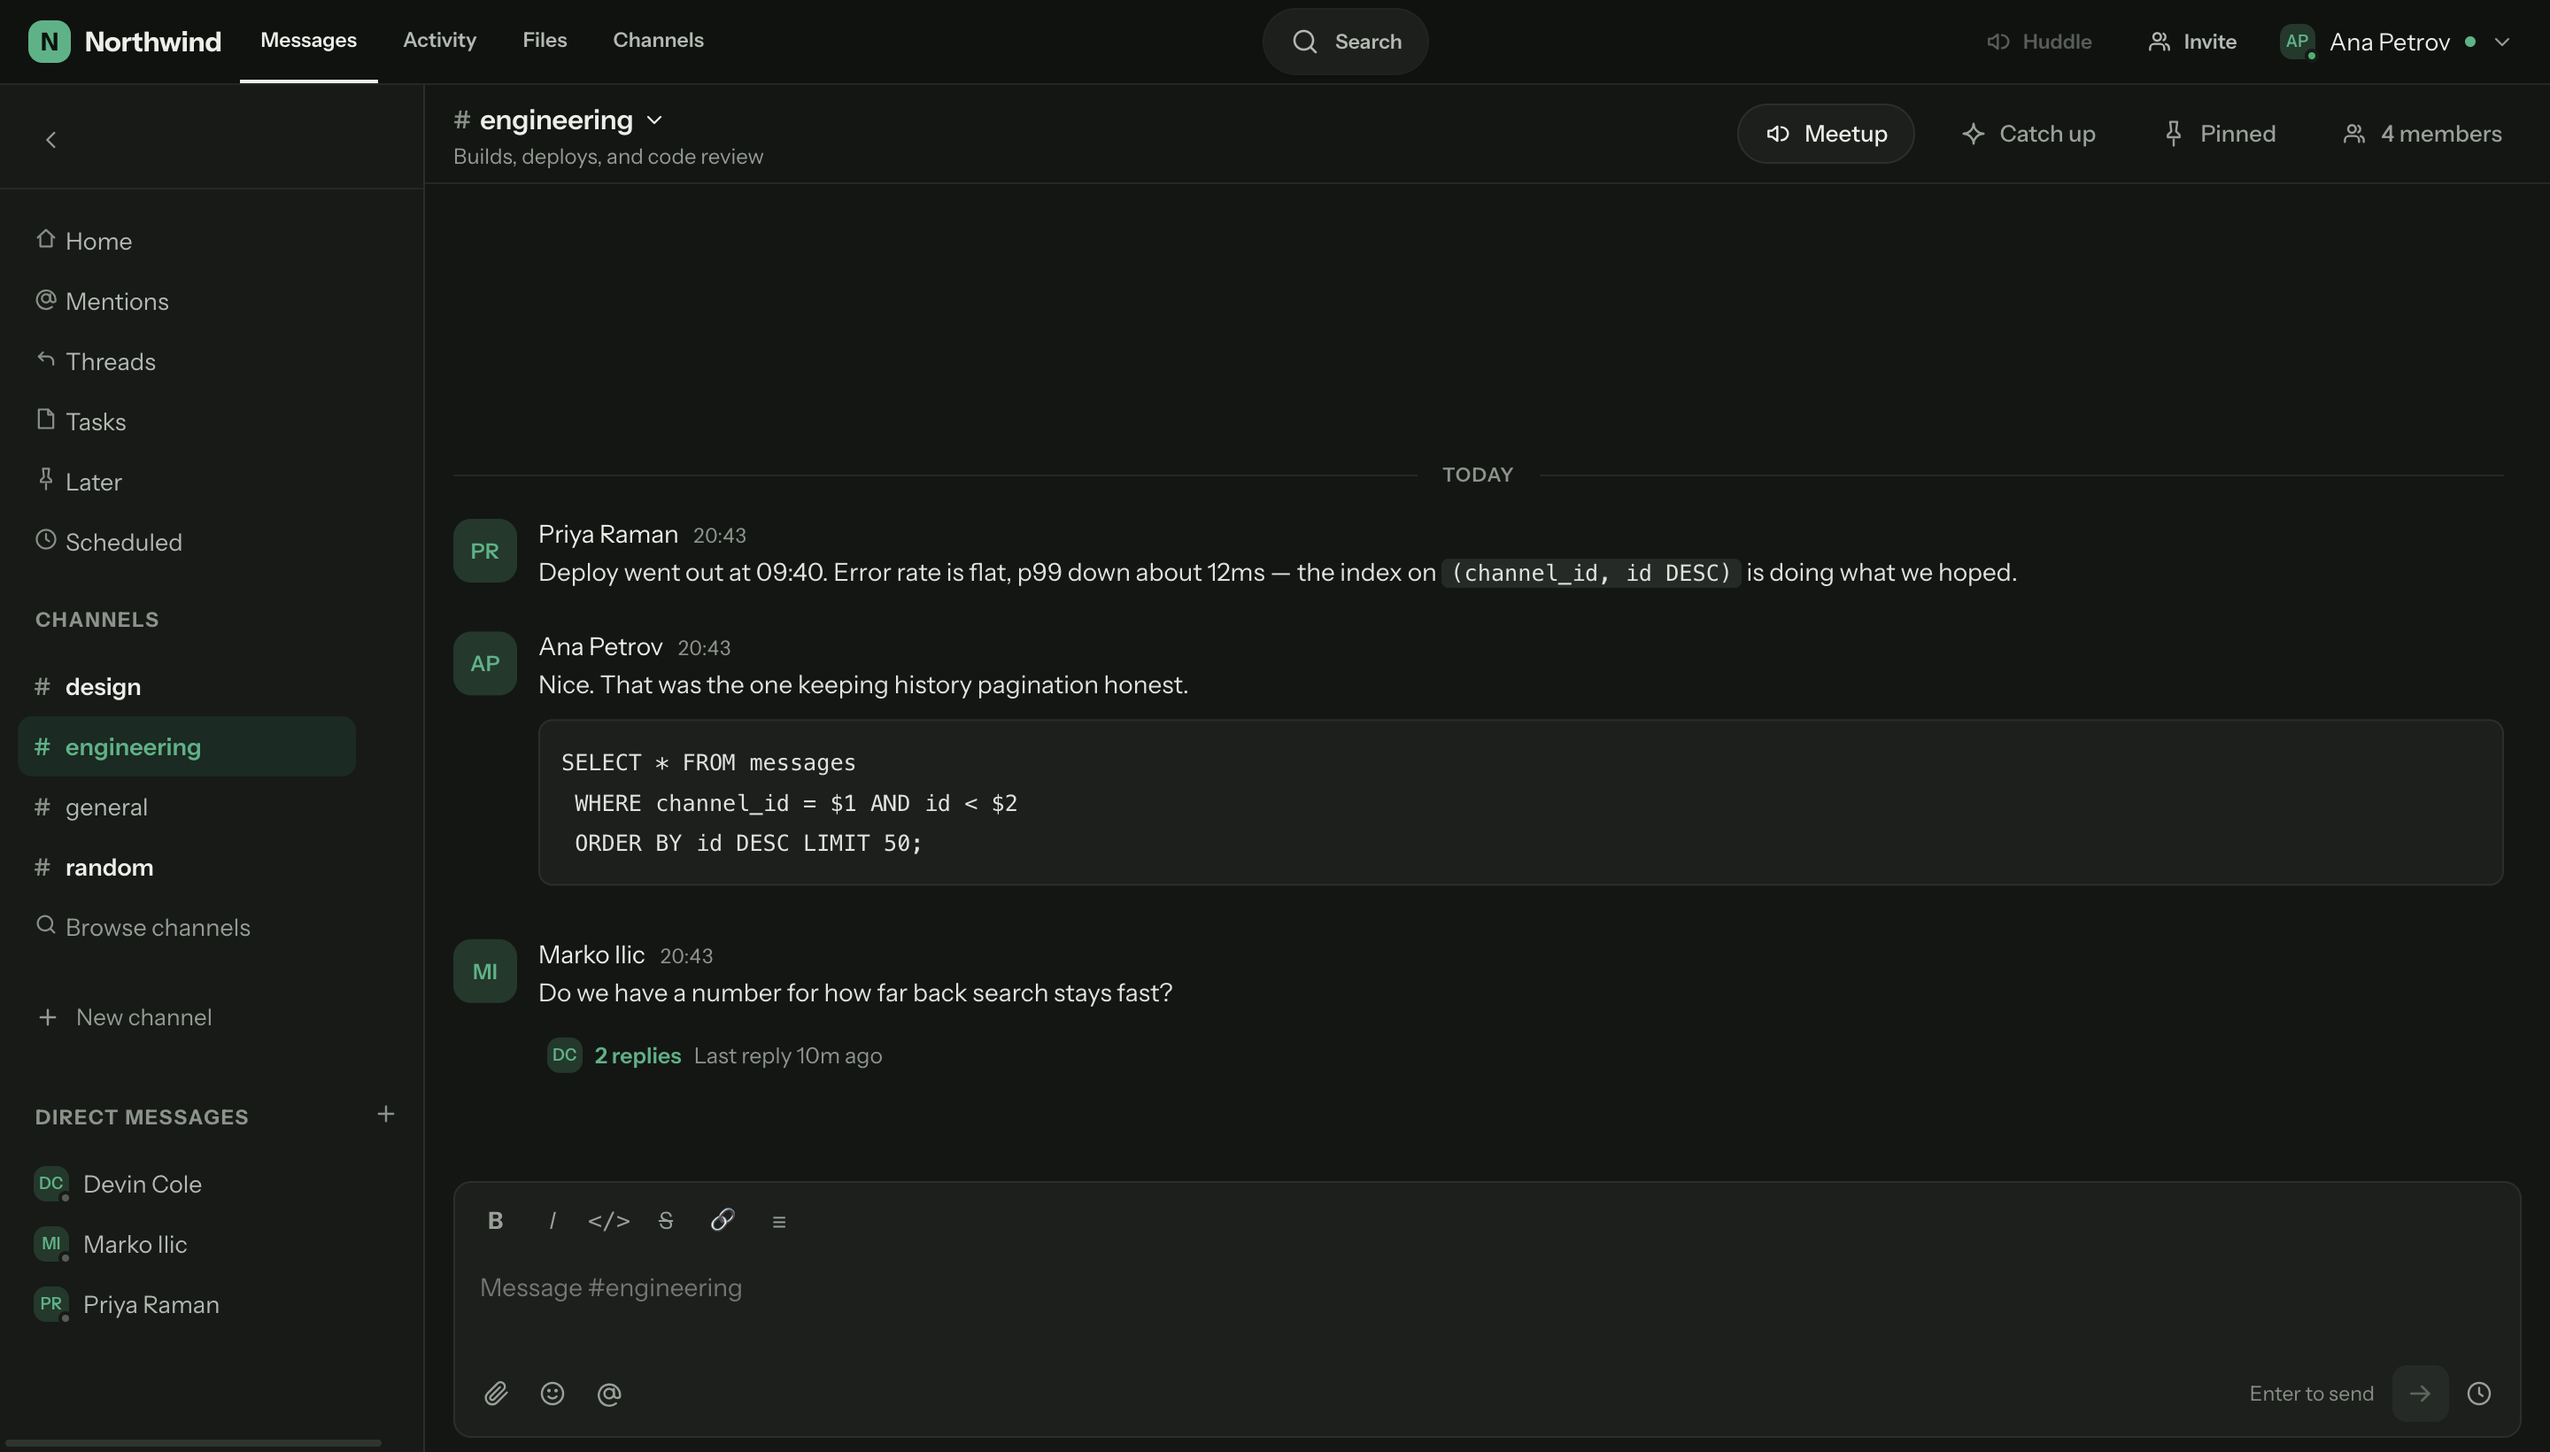
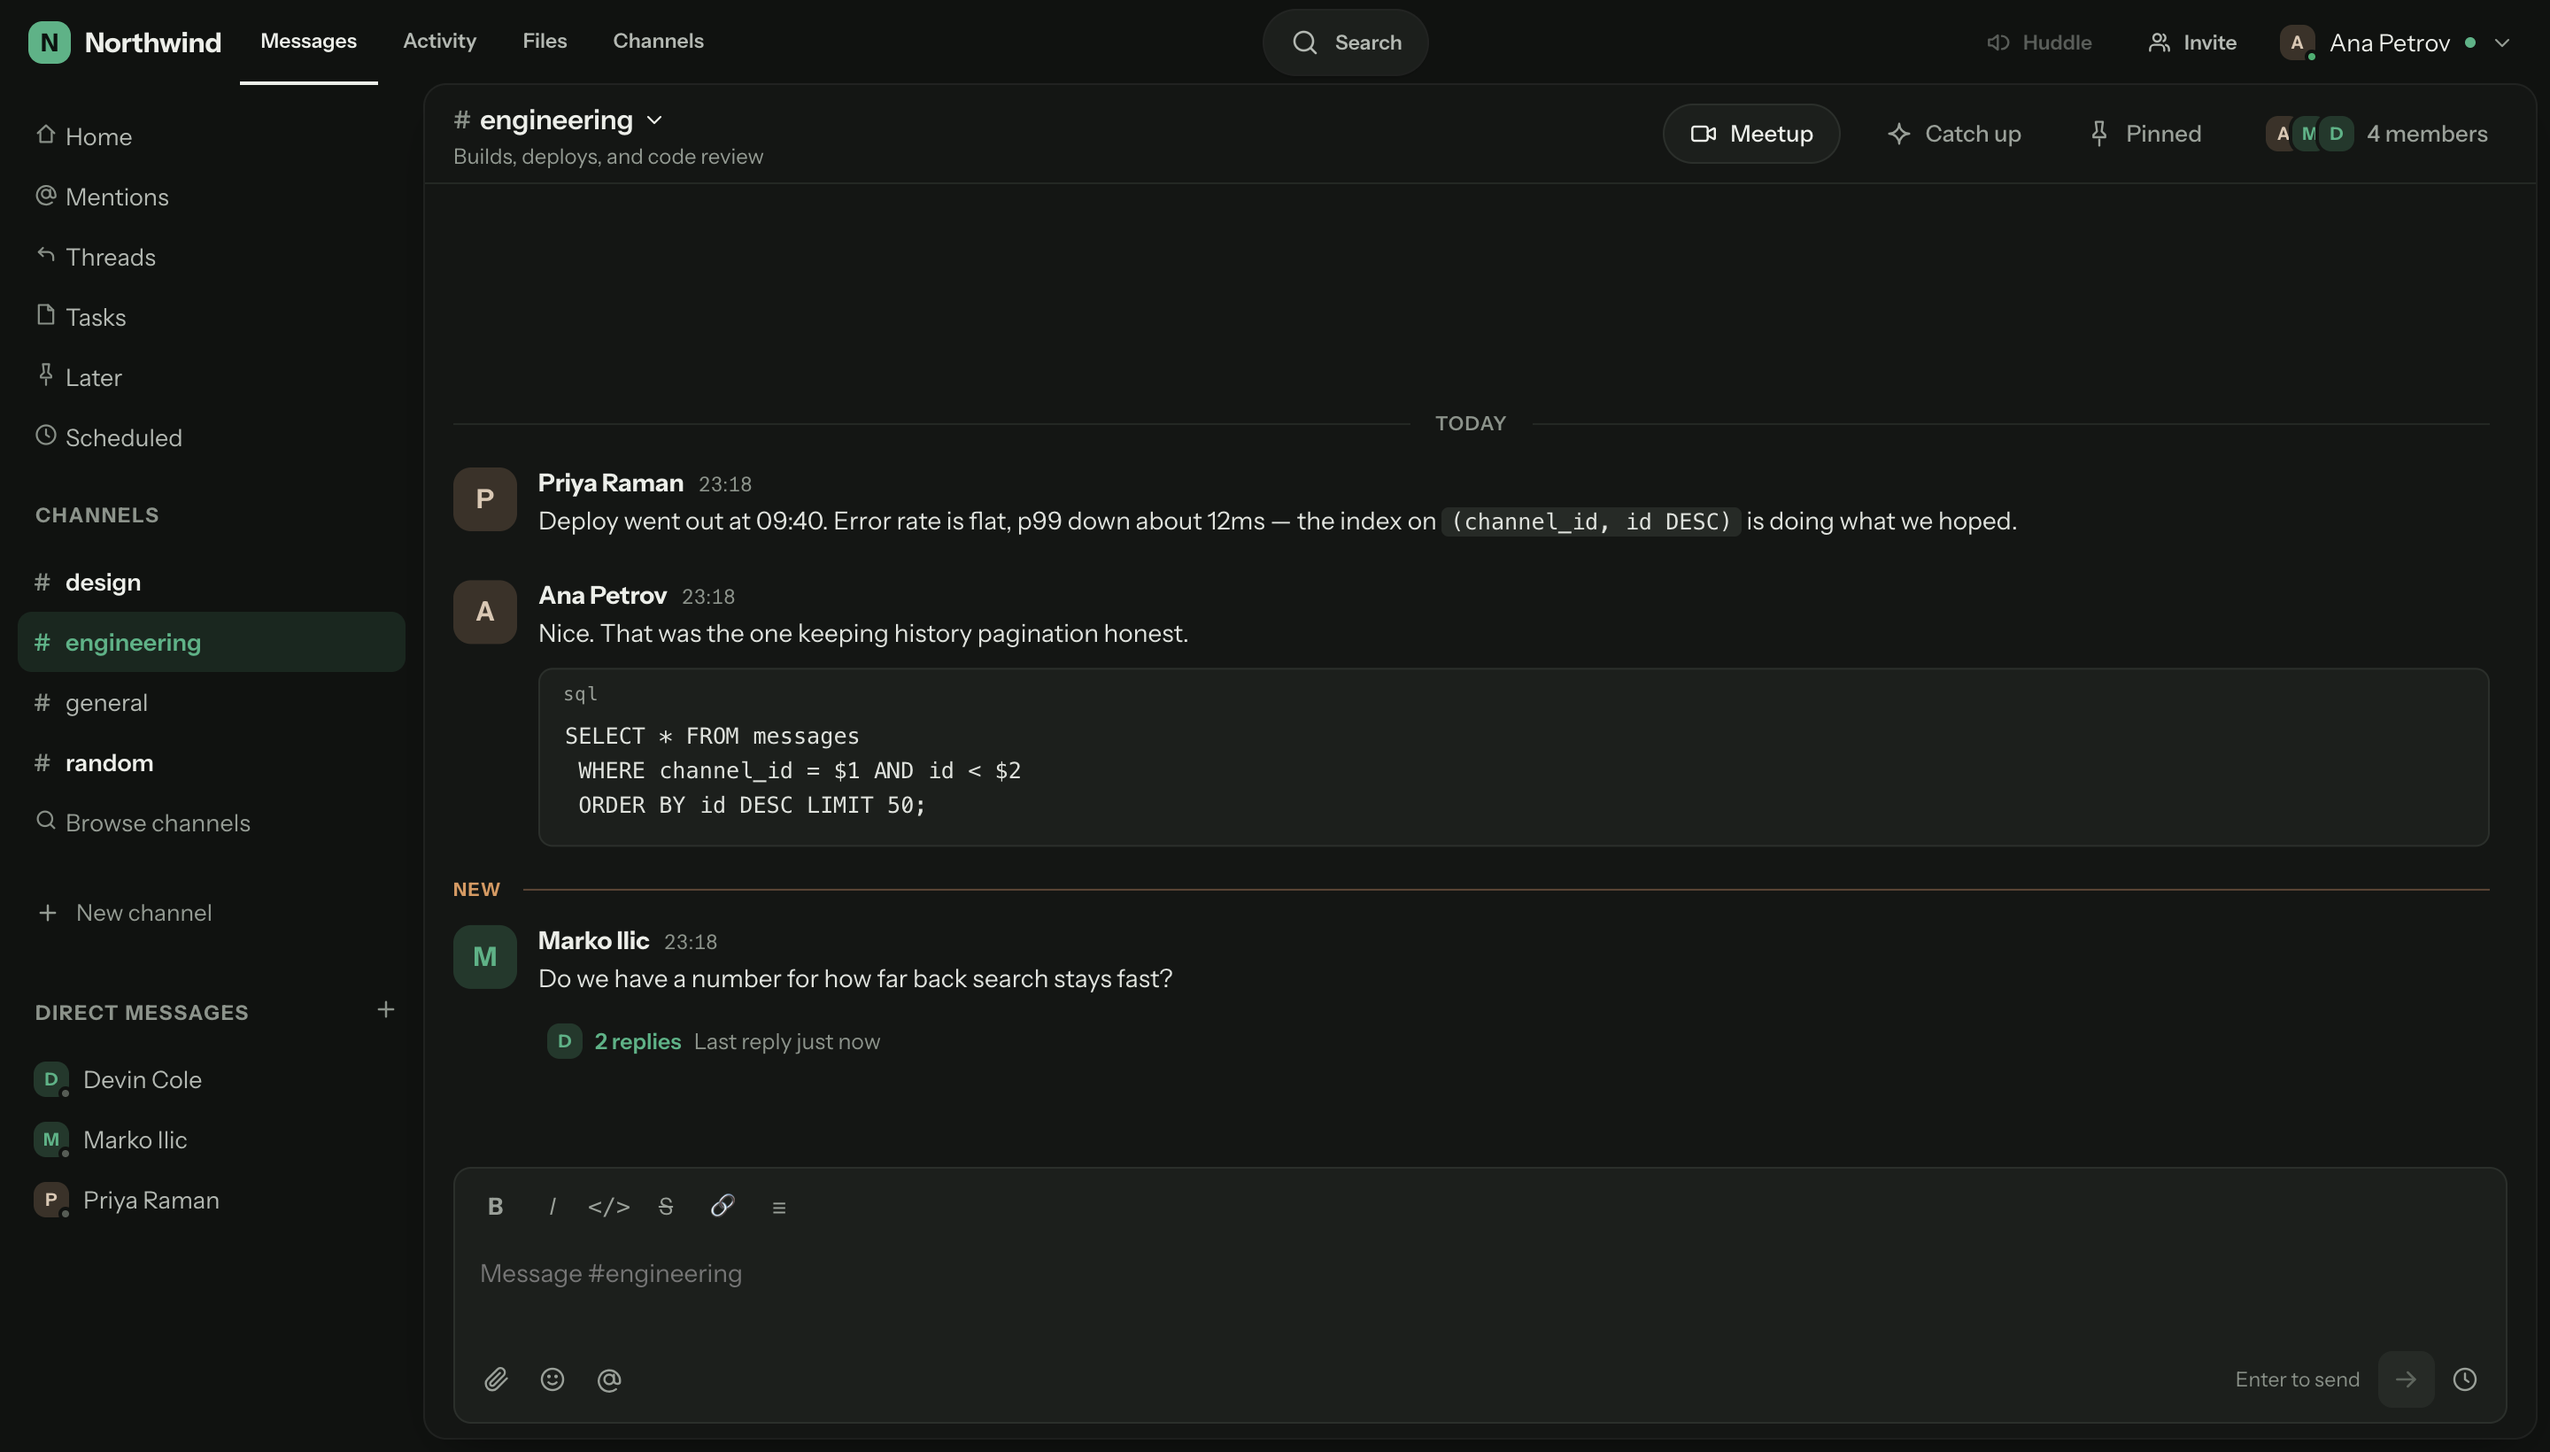
docs: the README shows the new design; CLAUDE.md learns the frame; the guide learns the drop, the copy and the way back
- docs/images: the five screenshots retaken after the modernization, the way the README
  notes say to — a fresh seed, Ana, light and dark from the browser's scheme rather than a
  saved preference, 1440×820 at 2×, the catch-up strip dismissed and the new-messages line
  kept (the dark hero is the same visit, switched in place, so the line survives).
- CLAUDE.md: a fifth design-layer rule — the work sits in a frame: what the card is made
  of, why it is a rule about two selectors with nothing wrapped round them and no
  overflow: hidden, and that a row on the ground uses `--ground-*` rather than the
  palette's washes. And the anchor-positioning note, out of date: it reached all three
  engines with Firefox 147 in January 2026, though it is not Baseline yet; scroll-driven
  animations are still Firefox Nightly only.
- The guide (lib/help.ts): a code block's language label and Copy button; a file dropped
  anywhere on the conversation, or on a thread for your reply; Jump to latest, and what
  its count does not include.
- The plan: where it stands — what each phase's review caught, and the two things
  deferred with their reasons.

diff --git a/apps/web/src/lib/help.ts b/apps/web/src/lib/help.ts
@@ -163,6 +163,7 @@ export const SECTIONS: Section[] = [
         body: [
           'Write **bold**, *italics* or _italics_, ~~strikethrough~~ and `code` inline. Start a line with > for a quote, with - or 1. for a list, and fence a block of code with three backticks. [Text](https://example.com) makes a link, and a bare URL becomes one on its own.',
           'The buttons under the composer do the same thing to whatever you have selected, and so do the keyboard chords. Nothing you write ever becomes raw HTML, so a message cannot inject markup into anyone else’s screen no matter what it contains.',
+          'A code block shows the language it was fenced with — ```sql gives it a “sql” label — and a Copy button at its foot takes the whole block, indentation and all. The button shows when you point at the block, and is always there on a touch screen.',
         ],
         shortcuts: ['format-bold', 'format-italic', 'format-code', 'format-strike'],
         keywords: ['markdown', 'bold', 'italic', 'code', 'quote', 'list', 'link'],
@@ -193,7 +194,7 @@ export const SECTIONS: Section[] = [
         title: 'Files and images',
         blurb: 'Attach up to ten files to a message, each under 100 MB.',
         body: [
-          'The paperclip beside the composer attaches a file, and so does dropping one on the conversation. Both limits are enforced on the server as well as in the browser, so a file refused here would have been refused there too.',
+          'The paperclip beside the composer attaches a file, and so does dropping one anywhere on the conversation — the messages, not only the box you type in. Dropped on an open thread, it goes into your reply instead. Nothing is sent until you send it. Both limits are enforced on the server as well as in the browser, so a file refused here would have been refused there too.',
           'Anything executable is refused by extension — .exe, .msi, .bat, .cmd, .com, .scr, .ps1, .sh, .app and .jar — and so are .svg and .html, which are executable in a browser even though they do not look it.',
           'An image is shown in the conversation as a small copy made when you upload it, so a large photo is not a large download for everyone who scrolls past. Clicking it opens the original full size in place — Escape closes it, and Download keeps it. A photo taken sideways is turned upright, and the copy the channel sees carries none of the camera data the original does; the original itself is untouched. Anything that is not an image opens in a new tab as before.',
         ],
@@ -262,8 +263,9 @@ export const SECTIONS: Section[] = [
         blurb: 'A “New messages” divider marks where your reading stopped when you open a conversation.',
         body: [
           'The marker only ever moves forward, so a slow update from another tab or another device cannot drag your position backwards. Moving it back is a deliberate act: Mark unread on a message puts the line above it again.',
+          'Read a screen or more back from the newest message and a Jump to latest button appears at the foot of the conversation. If people kept talking while you read, it says how many new messages are waiting instead; your own do not count.',
         ],
-        keywords: ['unread', 'new messages', 'divider', 'where I left off', 'position'],
+        keywords: ['unread', 'new messages', 'divider', 'where I left off', 'position', 'jump to latest', 'newest'],
       },
       {
         id: 'remind-me',

diff --git a/CLAUDE.md b/CLAUDE.md
@@ -342,8 +342,9 @@ still sit with the subject it belongs to instead of in a bucket named after a pe
 
 **The design layer.** `styles/tokens.css` is the whole vocabulary and `styles/app.css`
 spends it: colour, type and layout, plus elevation (`--elev-1..3`), radius
-(`--radius-xs..full`), motion (`--dur-*`, `--ease-*`, `--motion-*`) and a stacking ladder
-(`--z-raised` … `--z-toast`). Four rules the file will not tell you on its own:
+(`--radius-xs..full`), motion (`--dur-*`, `--ease-*`, `--motion-*`), a stacking ladder
+(`--z-raised` … `--z-toast`) and the frame (`--frame-*`, `--elev-frame`, `--ground-*`).
+Five rules the file will not tell you on its own:
 
 * **The 44 colour names are a contract with the server.** `services/themes.py` allowlists
   them by string and slices that tuple *by index* to group the theme editor, so renaming
@@ -353,6 +354,17 @@ spends it: colour, type and layout, plus elevation (`--elev-1..3`), radius
 * **Elevation carries its own border.** Every `--elev-*` opens with a `0 0 0 1px` ring, so
   an elevated surface sets `box-shadow` and no `border`. Setting both is how four
   different popover treatments drifted apart before.
+* **The work sits in a frame (Meadow `1a`, since 2026-10).** From 769px `.shell > .pane` —
+  every view's root — and `.shell > .panel` — a thread, a file, a terminal — are one paper
+  card, inset by `--frame-gap`, rounded `--frame-radius`, shadowed `--elev-frame`, on the
+  ground the top bar and the channel list share (`--bg-sidebar`, which in dark sits
+  *below* the page so the card lifts); the consoles' `.admin-main` is framed the same way.
+  It is a rule about those selectors with nothing wrapped round them and no
+  `overflow: hidden` — the header's menus and the message toolbar overhang the card — so a
+  view root sets no margin, radius or background of its own, and anything that paints to
+  the card's edge clips itself (the file panel does). A row on the ground hovers, selects
+  and presses with `--ground-*`, mixed against whatever the ground is: the palette's
+  washes were tuned on near-white and vanish on the tint.
 * **Overlays enter and leave — menus, toasts, the thread panel, the two conversation
   notices, the typing line and the dialogs.** Each is held through a 150 ms exit by
   `lib/usePresence.ts` (`{present, state}`; `animationend` on the node itself, or the
@@ -436,9 +448,11 @@ fades keep their duration. Anything sized for a pointer gets a 44px minimum unde
   designed, or a dependency or platform API chosen, look up the present state of the art
   and say what you found; propose the current approach first and give a reason if you
   recommend an older one. Ready is part of the rule — client code means Chrome, Firefox
-  and Safari today, which is why the design layer still refuses anchor positioning and
-  scroll-driven animations. "I checked and the established option is still right" answers
-  this; "I did not check" does not.
+  and Safari today, which is why the design layer still refuses scroll-driven animations
+  (Firefox has them in Nightly only, as of 2026-10). Anchor positioning reached all three
+  engines with Firefox 147 in January 2026 but is not Baseline yet, so it may be an
+  enhancement with a fallback and not something a layout depends on. "I checked and the
+  established option is still right" answers this; "I did not check" does not.
 
 ### Architecture rules (machine-enforced — `torsor guard` flags violations)
 - forbid_pattern: `(?m)^(?!\s*#).*\bOFFSET\s+:` in `apps/api/src/blob_api/services/*.py` — Chat queries use keyset pagination, never OFFSET — see ADR 0003. (per ADR 0003: SQLAlchemy for schema, verbatim SQL for the hot paths)

diff --git a/docs/superpowers/specs/2026-10-08-interface-modernization.md b/docs/superpowers/specs/2026-10-08-interface-modernization.md
@@ -61,3 +61,41 @@ taken on main, and a review before the next phase builds on it. Nothing is pushe
    resting and focused states per Meadow.
 6. **Motion and focus.** One focus ring; skeletons where a view says "Loading…"; a pass
    over hover and press so every control answers.
+
+## Where it stands (2026-10-08)
+
+All six built, each a commit on its own stacked branch (`modern-phase-1` … `-6`, then
+`modern-docs` for the guide, CLAUDE.md and the README's screenshots), reviewed, and the
+review's findings fixed on the phase they belonged to. Not pushed.
+
+What review caught, phase by phase:
+
+1. A PDF or page in the file panel painted over the card's rounded corner (the file panel
+   now clips); a CSV preview's sticky header kept the sidebar's tint. The built-in palettes
+   whose rail is darker than their sidebar now read as a band across the top — kept, and
+   said so in the stylesheet.
+2. A code block's Copy button nested inside the button that a search hit and a pinned row
+   each are — invalid, and invisible to assistive tech; `renderMarkdown` takes
+   `copyableCode: false` there. On touch the always-visible Copy covered one-line blocks;
+   it sits below the block there.
+3. "Needs you" counted decisions but sent you to the mentions page, which cannot show one;
+   it now takes you down Home to the decisions, then the unread mentions. The phone tab
+   strip's fade could hide the last tab's underline.
+4. The private channel's lock in ⌘K told only the eye; the row says "Private channel".
+5. Nothing at the bar. Below it: `dragend` never fires for a file dragged in from the
+   desktop (its source is outside the page) — covered, because a cancelled or departing
+   drag fires `dragleave` on the current target, which empties the depth count.
+6. The skeletons were not shaped like what replaced them: the pinned list's avatars were
+   36px over 20px rows, Files drew rows before a grid of tiles, and the skeleton's own
+   padding stacked on every container's. Each now matches its rows.
+
+Deferred, with the reason:
+
+- **The person card on hover** (Slack, Teams, Linear). `PersonCard` is built on `Menu`,
+  which while open joins the Escape stack and steers ↑↓ window-wide; a card opened by a
+  passing pointer would take the composer's ↑ and Escape. It needs a peek mode that does
+  neither.
+- **`flushSync was called from inside a lifecycle method`** in the dev console when
+  messages arrive at the bottom of a conversation — on main too. TanStack Virtual 3.14 has
+  `useFlushSync: false` for React 19; turning it off changes rendering during fast scroll
+  and wants measuring first.
